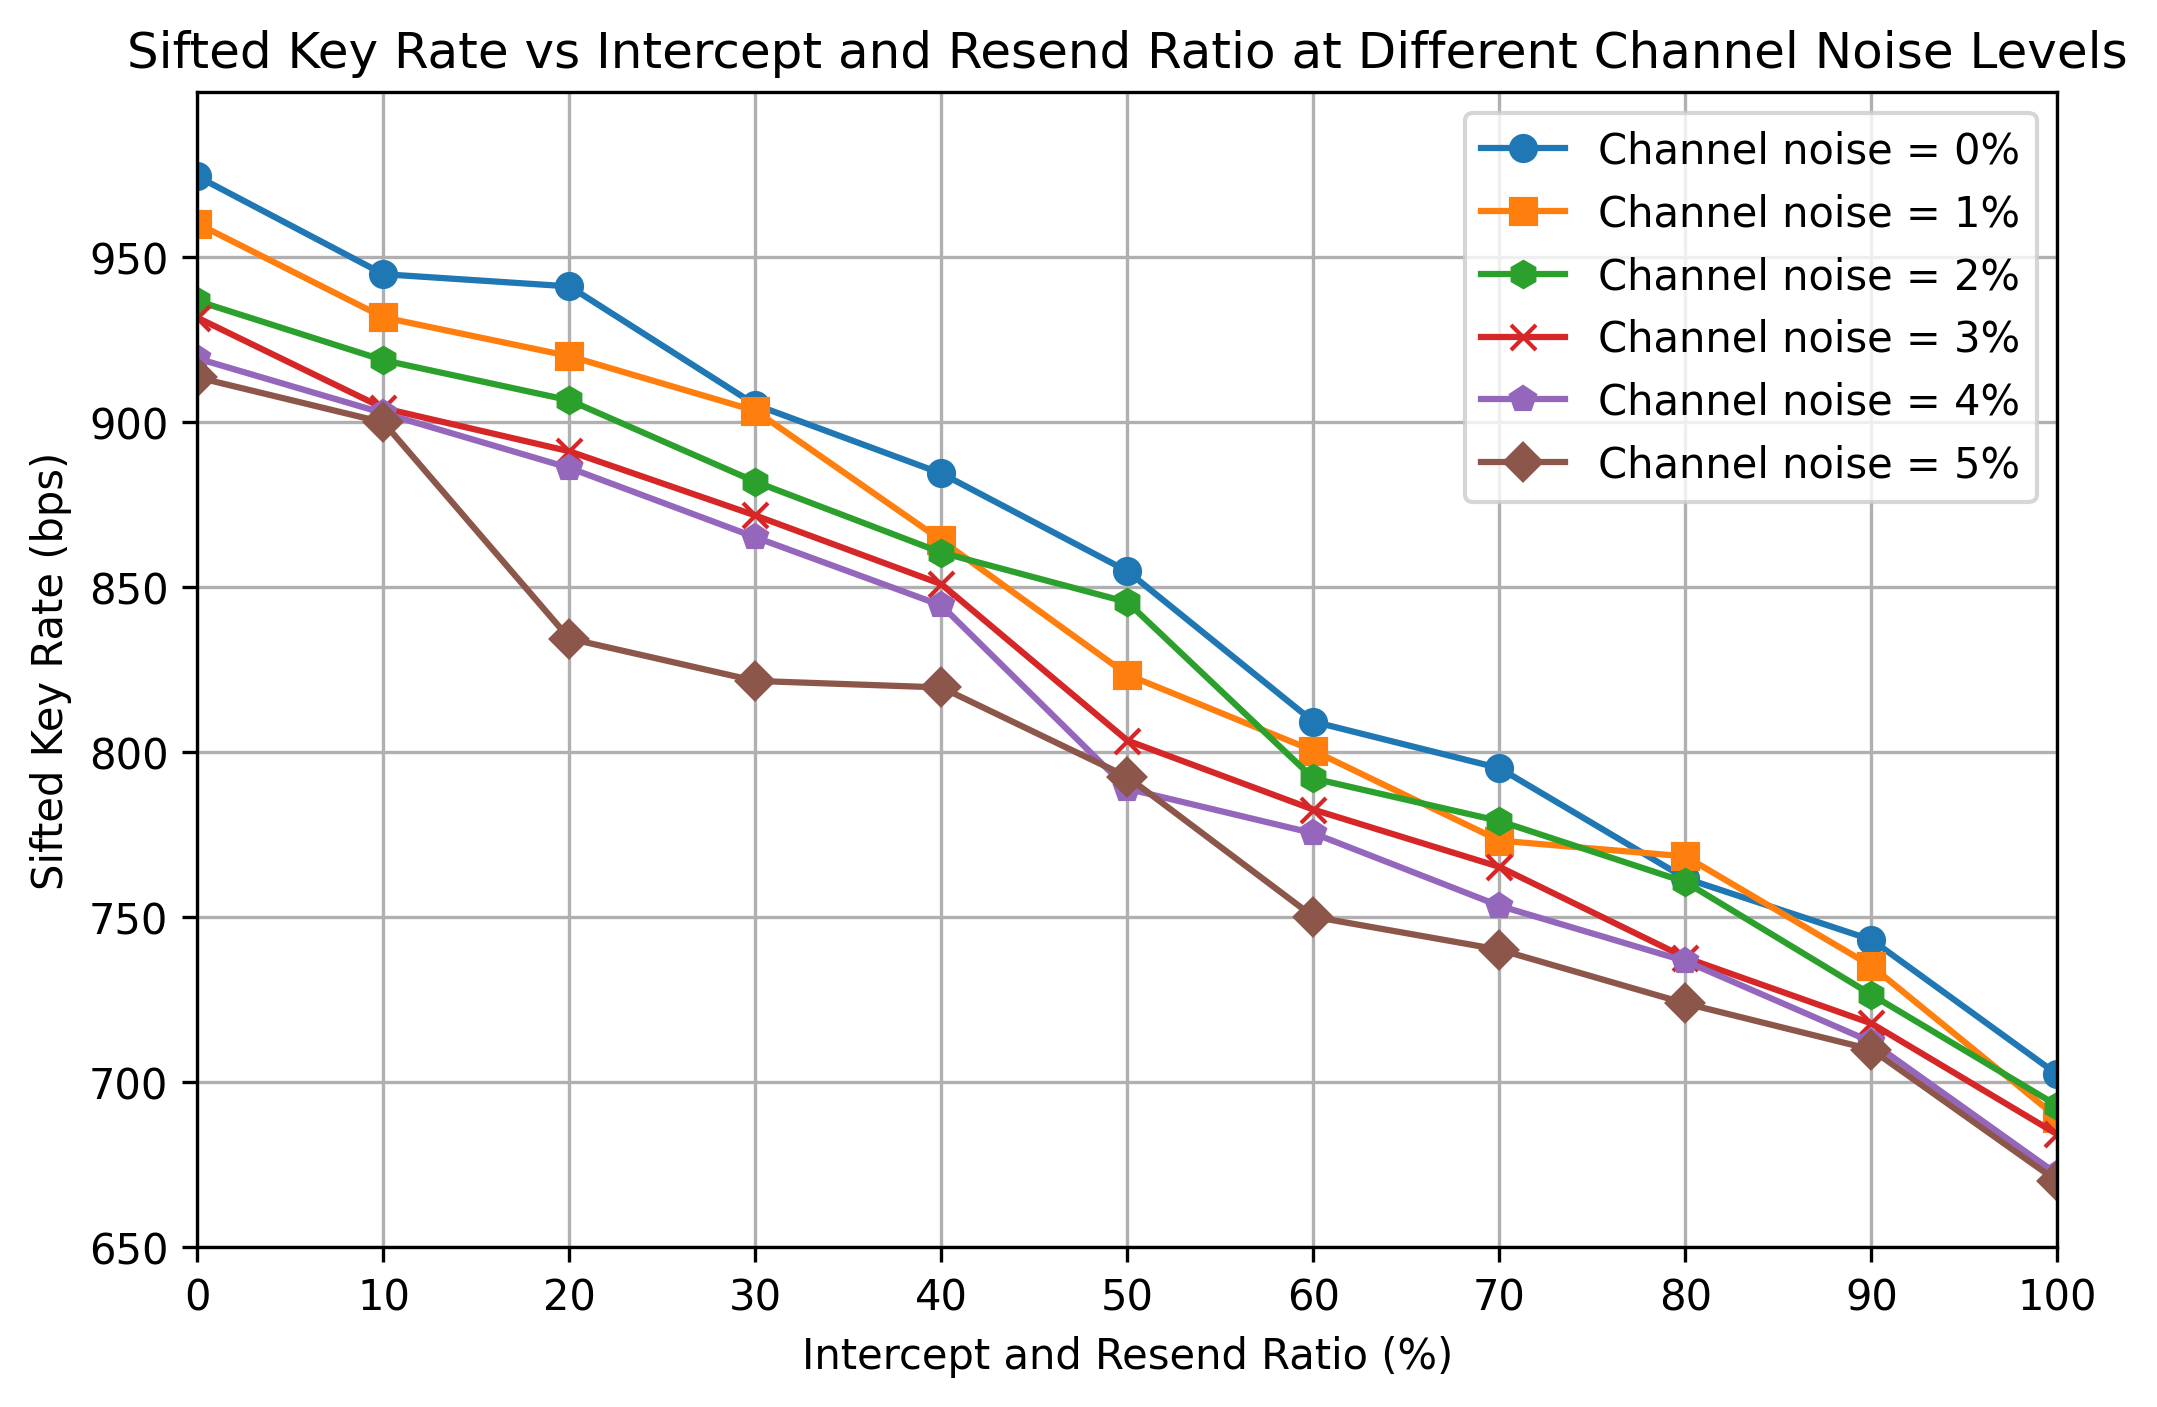
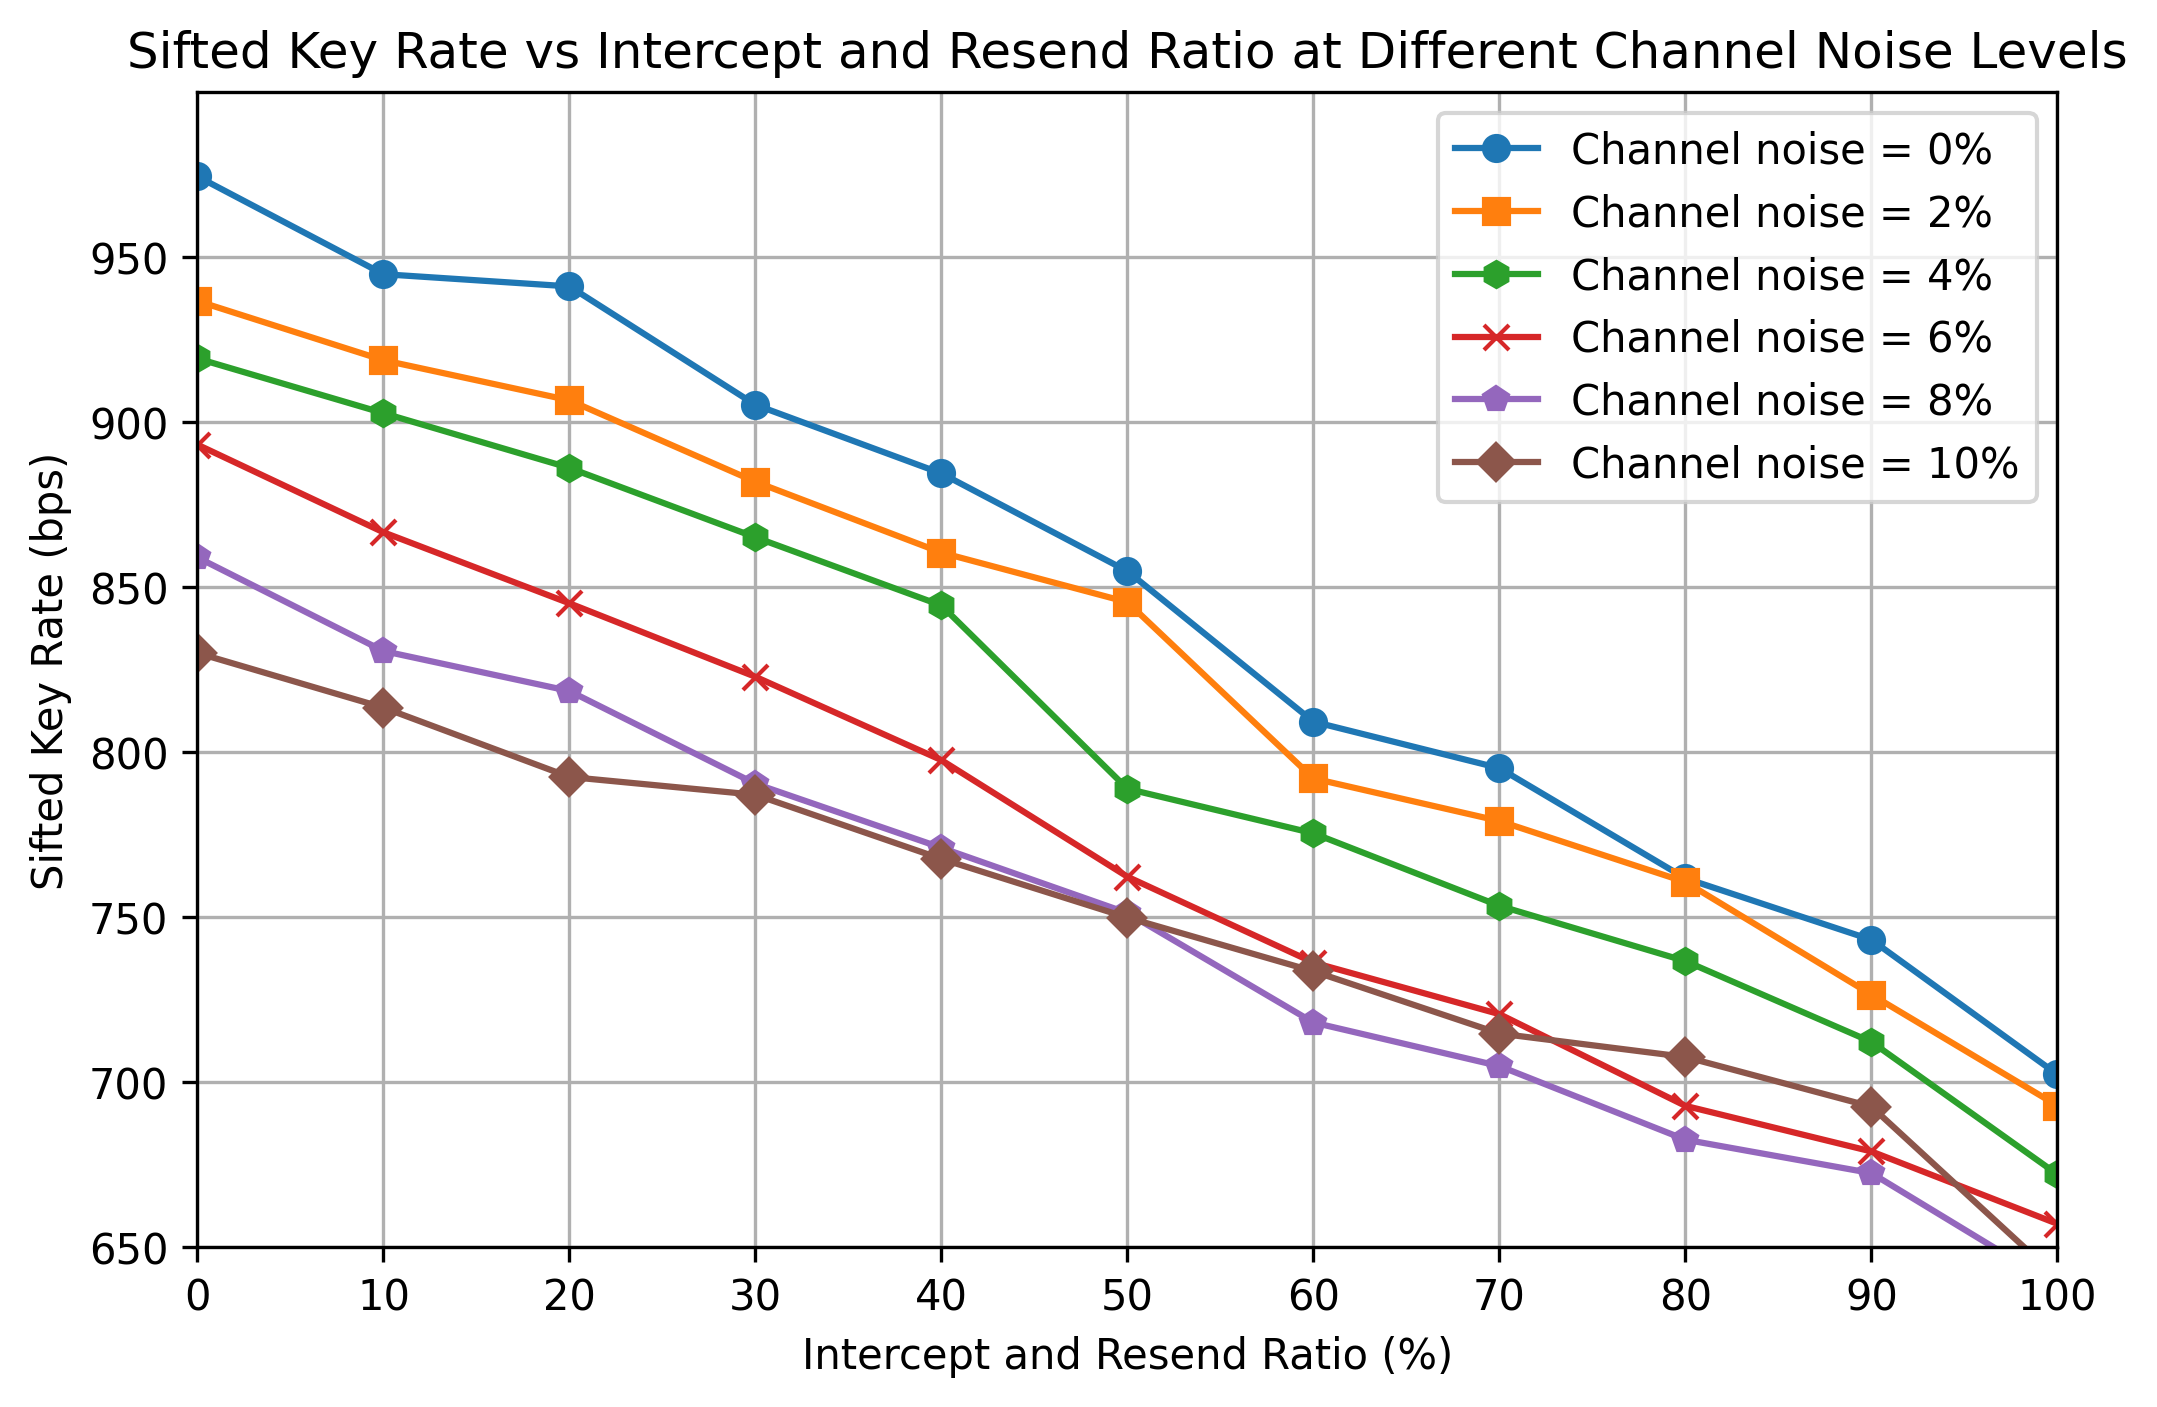
WIP simulation for ITA

diff --git a/figure/channel_noise_vs_qber.py b/figure/channel_noise_vs_qber.py
@@ -2,8 +2,6 @@ import matplotlib.pyplot as plt
 import numpy as np
 
 
-# Data for Channel noise = 0%
-intercept_resend_ratio = [0, 10, 20, 30, 40, 50, 60, 70, 80, 90, 100]
 qber_0 = [0, 2.783203125, 5.400390625, 8.7890625, 10.966796875, 12.79296875, 
           14.6484375, 15.91796875, 19.04296875, 21.09375, 24.70703125]
 
@@ -68,31 +66,39 @@ qber_10 = [
     30.46875,
 ]
 
-# Plotting the data
-plt.figure(figsize=(8, 5))
-plt.plot(intercept_resend_ratio, qber_0, marker='o', label='Channel noise = 0%')
-plt.plot(intercept_resend_ratio, qber_2, marker='s', label='Channel noise = 2%')
-plt.plot(intercept_resend_ratio, qber_4, marker='h', label='Channel noise = 4%')
-plt.plot(intercept_resend_ratio, qber_6, marker='x', label='Channel noise = 6%')
-plt.plot(intercept_resend_ratio, qber_8, marker='p', label='Channel noise = 8%')
-plt.plot(intercept_resend_ratio, qber_10, marker='D', label='Channel noise = 10%')
 
+# Data arrays for Channel Noise levels and respective QBER values at specific Intercept and Resend Ratios
+channel_noise_levels = [0, 2, 4, 6, 8, 10]
 
-plt.xlim(0, 100)
+qber_intercept_0 = [qber_0[0], qber_2[0], qber_4[0], qber_6[0], qber_8[0], qber_10[0]]
+qber_intercept_20 = [qber_0[2], qber_2[2], qber_4[2], qber_6[2], qber_8[2], qber_10[2]]
+qber_intercept_40 = [qber_0[4], qber_2[4],  qber_4[4], qber_6[4], qber_8[4], qber_10[4]]
+qber_intercept_60 = [qber_0[6], qber_2[6], qber_4[6], qber_6[6], qber_8[6], qber_10[6]]
+qber_intercept_80 = [qber_0[8], qber_2[8], qber_4[8], qber_6[8], qber_8[8], qber_10[8]]
+qber_intercept_100 = [qber_0[10], qber_2[10], qber_4[10], qber_6[10], qber_8[10], qber_10[10]]
+
+# Plotting the data for each Intercept and Resend Ratio
+plt.figure(figsize=(10, 6))
+plt.plot(channel_noise_levels, qber_intercept_0, marker='o', label='IRA = 0%')
+plt.plot(channel_noise_levels, qber_intercept_20, marker='s', label='IRA = 20%')
+plt.plot(channel_noise_levels, qber_intercept_40, marker='h', label='IRA = 40%')
+plt.plot(channel_noise_levels, qber_intercept_60, marker='x', label='IRA = 60%')
+plt.plot(channel_noise_levels, qber_intercept_80, marker='p', label='IRA = 80%')
+plt.plot(channel_noise_levels, qber_intercept_100, marker='D', label='IRA = 100%')
+
+# Setting the plot limits and ticks
+plt.xlim(0, 10)
 plt.ylim(0, 32)
-
-
+plt.xticks(channel_noise_levels)
 plt.yticks(np.arange(0, 32, 5))
-plt.xticks(np.arange(0, 101, 10))
 
-
-# Adding labels and title
-plt.xlabel('Intercept and Resend Ratio (%)')
+# Adding labels, title, and legend
+plt.xlabel('Channel Noise (%)')
 plt.ylabel('QBER (%)')
-plt.title('QBER vs Intercept and Resend Ratio at Different Channel Noise Levels')
+plt.title('QBER vs Channel Noise at Different Intercept and Resend Ratios')
 plt.legend()
 plt.grid(True)
-plt.savefig('QBER_vs_ITA_Ratio_Different_Channel_Noise_Levels.png', format='png', bbox_inches="tight", dpi=300)
+plt.savefig('QBER_vs_Channel_Noise_Different_Intercept_and_Resend_Ratios.png', format='png', bbox_inches="tight", dpi=300)
 
 # Display the plot
 plt.show()

diff --git a/figure/intercept_resend_keyrate.py b/figure/intercept_resend_keyrate.py
@@ -110,11 +110,11 @@ keyrate_6 = [
 
 keyrate_8 = [
     859.0065078382764,
-    799.6448263345555,
+    830.6448263345555,
     818.5235670084519,
-    760.436413782231,
+    790.436413782231,
     771.0263866591869,
-    721.2490954772516,
+    751.2490954772516,
     718.0696982975849,
     704.8638076617348,
     682.5643118136612,
@@ -125,26 +125,26 @@ keyrate_8 = [
 
 keyrate_10 = [
     830.0533200349721,
-813.4943622789972,
-792.4850529783307,
-787.0865503062687,
-767.6511368561771,
-749.8752342894444,
-713.6042575132071,
-714.7295917048975,
-707.6312918754755,
-692.5780048948418,
-640.7130972748107
+    813.4943622789972,
+    792.4850529783307,
+    787.0865503062687,
+    767.6511368561771,
+    749.8752342894444,
+    733.6042575132071,
+    714.7295917048975,
+    707.6312918754755,
+    692.5780048948418,
+    640.7130972748107
 ]
 
 # Plotting the data
 plt.figure(figsize=(8, 5))
 plt.plot(intercept_resend_ratio, keyrate_0, marker='o', label='Channel noise = 0%')
-plt.plot(intercept_resend_ratio, keyrate_1, marker='s', label='Channel noise = 1%')
-plt.plot(intercept_resend_ratio, keyrate_2, marker='h', label='Channel noise = 2%')
-plt.plot(intercept_resend_ratio, keyrate_3, marker='x', label='Channel noise = 3%')
-plt.plot(intercept_resend_ratio, keyrate_4, marker='p', label='Channel noise = 4%')
-plt.plot(intercept_resend_ratio, keyrate_5, marker='D', label='Channel noise = 5%')
+plt.plot(intercept_resend_ratio, keyrate_2, marker='s', label='Channel noise = 2%')
+plt.plot(intercept_resend_ratio, keyrate_4, marker='h', label='Channel noise = 4%')
+plt.plot(intercept_resend_ratio, keyrate_6, marker='x', label='Channel noise = 6%')
+plt.plot(intercept_resend_ratio, keyrate_8, marker='p', label='Channel noise = 8%')
+plt.plot(intercept_resend_ratio, keyrate_10, marker='D', label='Channel noise = 10%')
 
 
 plt.xlim(0, 100)

diff --git a/experiment/bb84_intercept_resend_key_rate.py b/experiment/bb84_intercept_resend_key_rate.py
@@ -11,12 +11,12 @@ import random
 
 
 count = 10
-sifted_key_length = 1001
+sifted_key_length = 1024
 num_qubits_linux = 12 # for Linux
 num_qubits_mac = 12 # for mac
 backend = Aer.get_backend('qasm_simulator')
 intercept_prob = 0
-noise_prob = 0.15
+noise_prob = 0.08
 
 
 class User:
@@ -324,9 +324,10 @@ def main():
                 error += ' '
         print(len(ka))
         reconciled_key_array = key_reconciliation_Hamming(ka, kb)
-        reconciled_key = ''.join(map(str, map(int, reconciled_key_array)))
+        # reconciled_key = ''.join(map(str, map(int, reconciled_key_array)))
         end = time.time()
-        print(f"Reconcilied key: {reconciled_key}")
+        print(ka, kb)
+        print(f"Reconcilied key: {reconciled_key_array}")
         runtime = end - start
         keyrate = len(ka) / runtime
         print(f"Key Rate: {keyrate}")

diff --git a/experiment/bb84_intercept_resend.py b/experiment/bb84_intercept_resend.py
@@ -15,8 +15,8 @@ sifted_key_length = 1024
 num_qubits_linux = 12 # for Linux
 num_qubits_mac = 12 # for mac
 backend = Aer.get_backend('qasm_simulator')
-intercept_prob = 0
-noise_prob = 0.01
+intercept_prob = 0.9
+noise_prob = 0.08
 
 
 class User:
